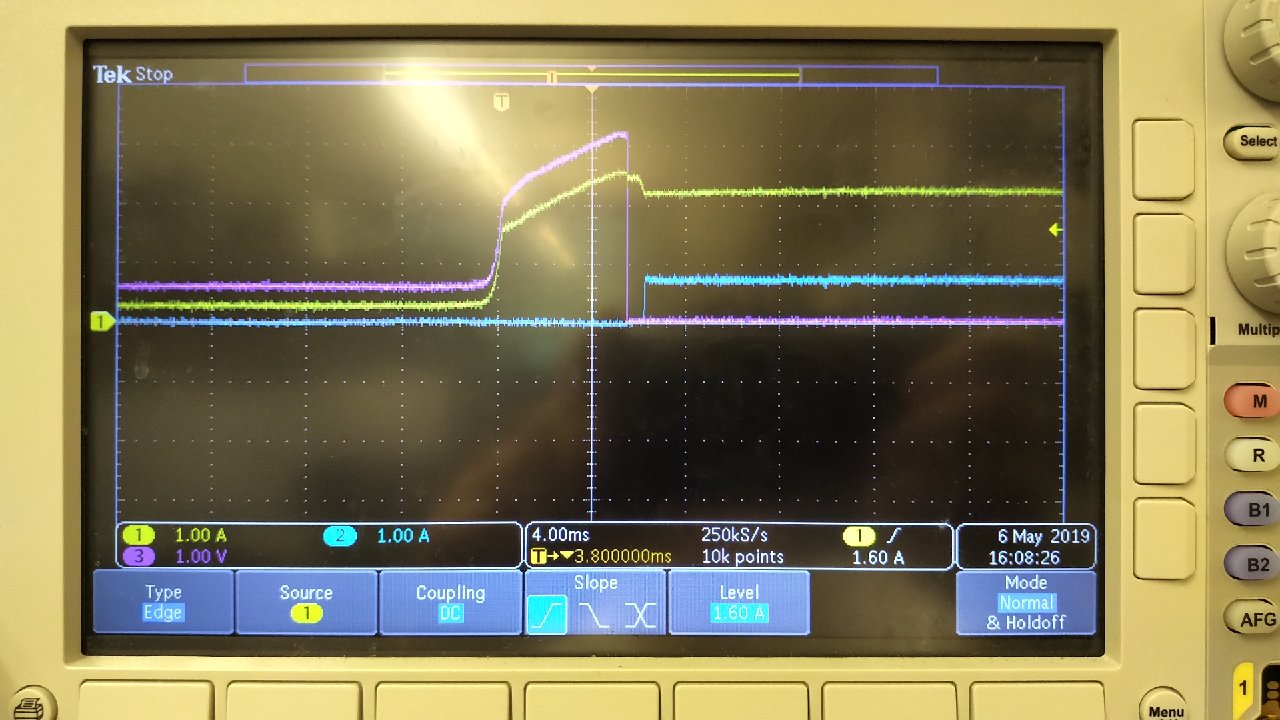
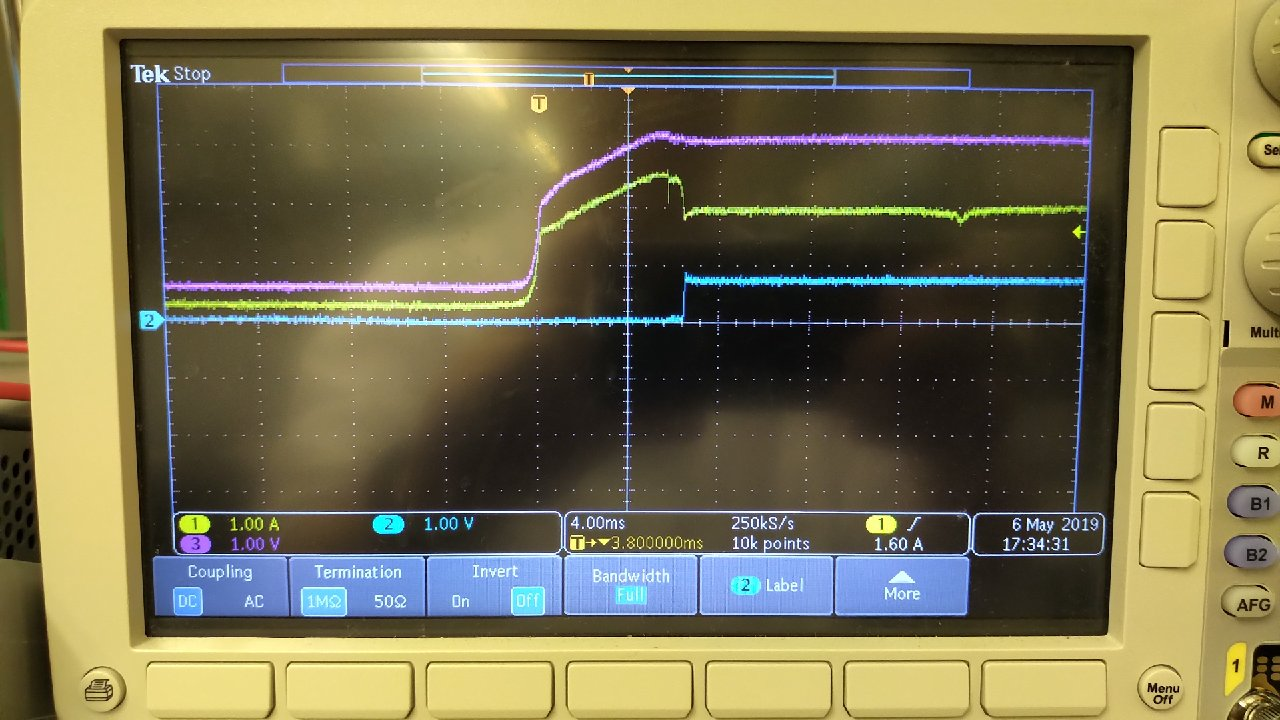
Got it working!
Also updated the picture

diff --git a/development/notes.tex b/development/notes.tex
@@ -519,7 +519,17 @@ this screenshot from startup of the device:
 \end{figure}
 
 The interesting observation is that Yellow voltage (OUT-) is not very
-different to the voltage of the OUT+ (not shown but it's the same
-voltage as the purple line until it drops) yet a reasonably large
+different to the voltage of the Purple voltage (OUT+) yet a reasonably large
 voltage and current is still produced on the output of the monitoring
 photodiode.
+
+I got it working!!!!
+
+A combination of plugging it in correctly and not trying to use an external
+voltage supply but utilising the onboard automatic power control meant that
+it now starts up fine using the red laser (with an integrated monitoring
+photodiode).
+
+The next thing to do is to either find a green laser with an integrated
+monitoring photodiode, or use our own laser and integrate a photodiode with
+it.
